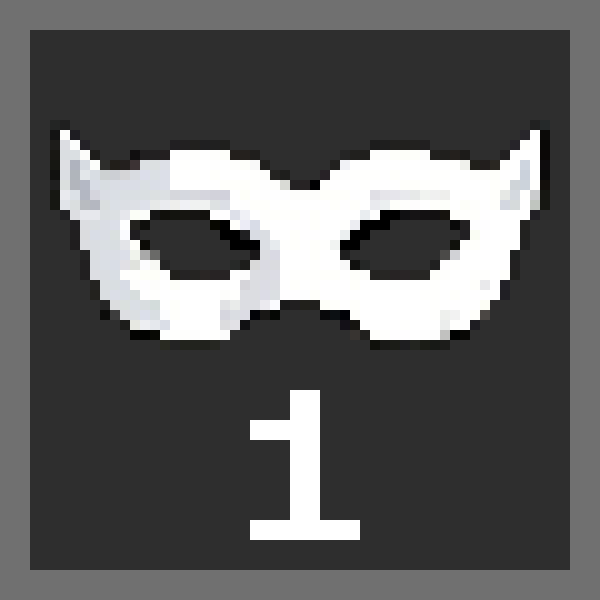
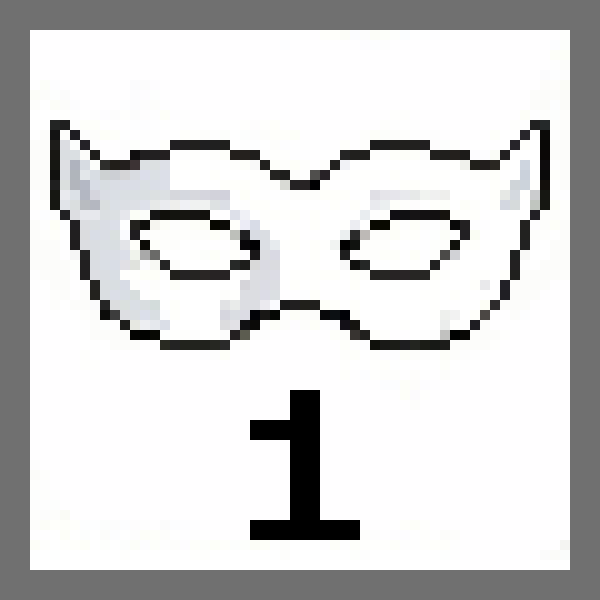
update

diff --git a/css/style.css b/css/style.css
@@ -109,6 +109,7 @@ canvas {
     background-size: contain;
     background-position: center;
     background-repeat: no-repeat;
+    /* color: transparent; Hide any text if present */
     font-family: inherit;
     font-size: var(--fs-mask);
     cursor: pointer;
@@ -118,13 +119,16 @@ canvas {
     transition: all 0.2s;
     position: relative;
     border-radius: 0;
+    filter: grayscale(20%);
+    opacity: 0.7;
 }
 
-.mask-btn:hover { transform: translateY(-2px); filter: brightness(1.2); }
+.mask-btn:hover { transform: translateY(-2px); filter: brightness(1.2) grayscale(0%); opacity: 1; }
 .mask-btn.active {
     transform: translateY(-8px);
-    filter: drop-shadow(0 0 5px rgba(255, 255, 255, 0.8));
+    filter: drop-shadow(0 0 5px rgba(255, 255, 255, 0.8)) grayscale(0%);
     z-index: 10;
+    opacity: 0.9;
 }
 
 /* Dimension Specific Styles with Images */
